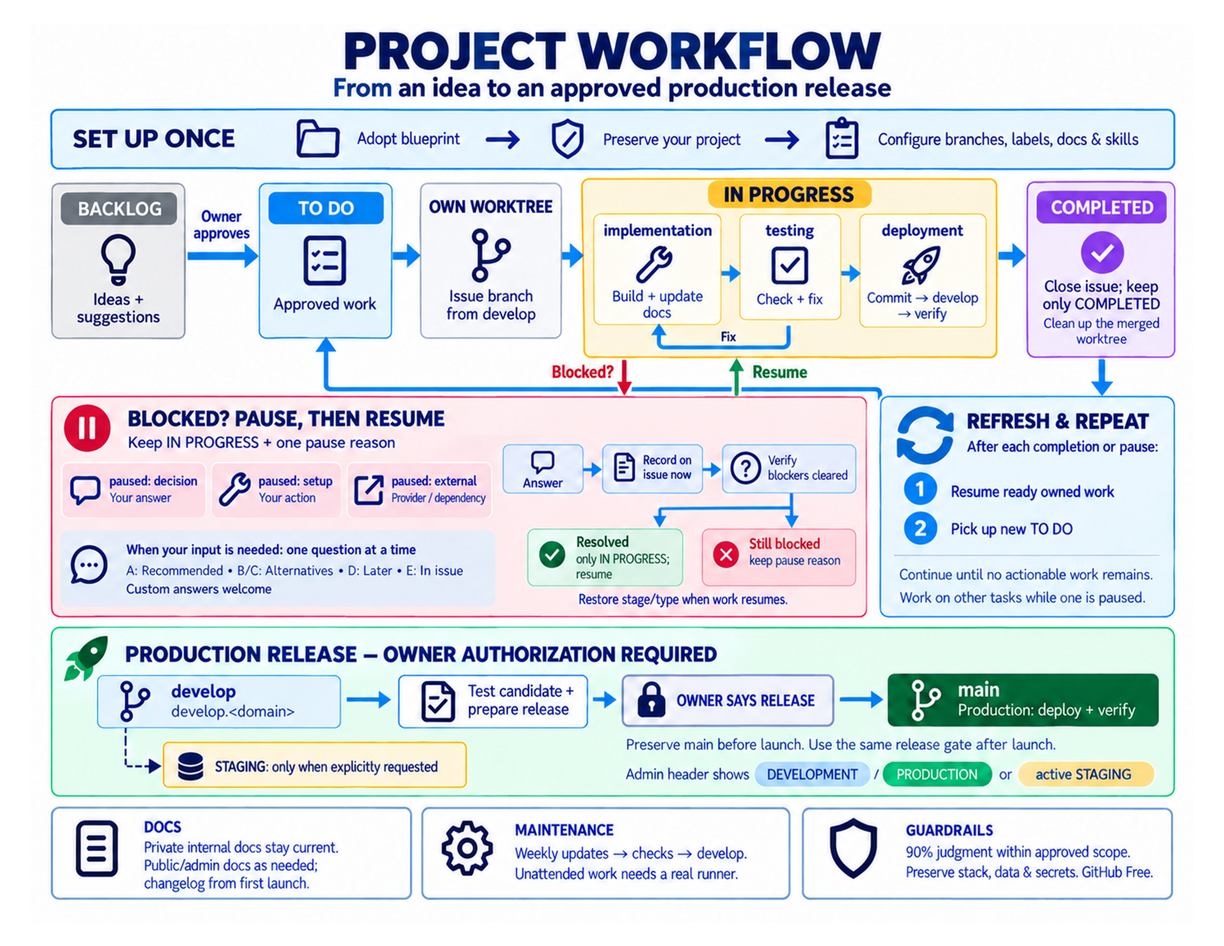
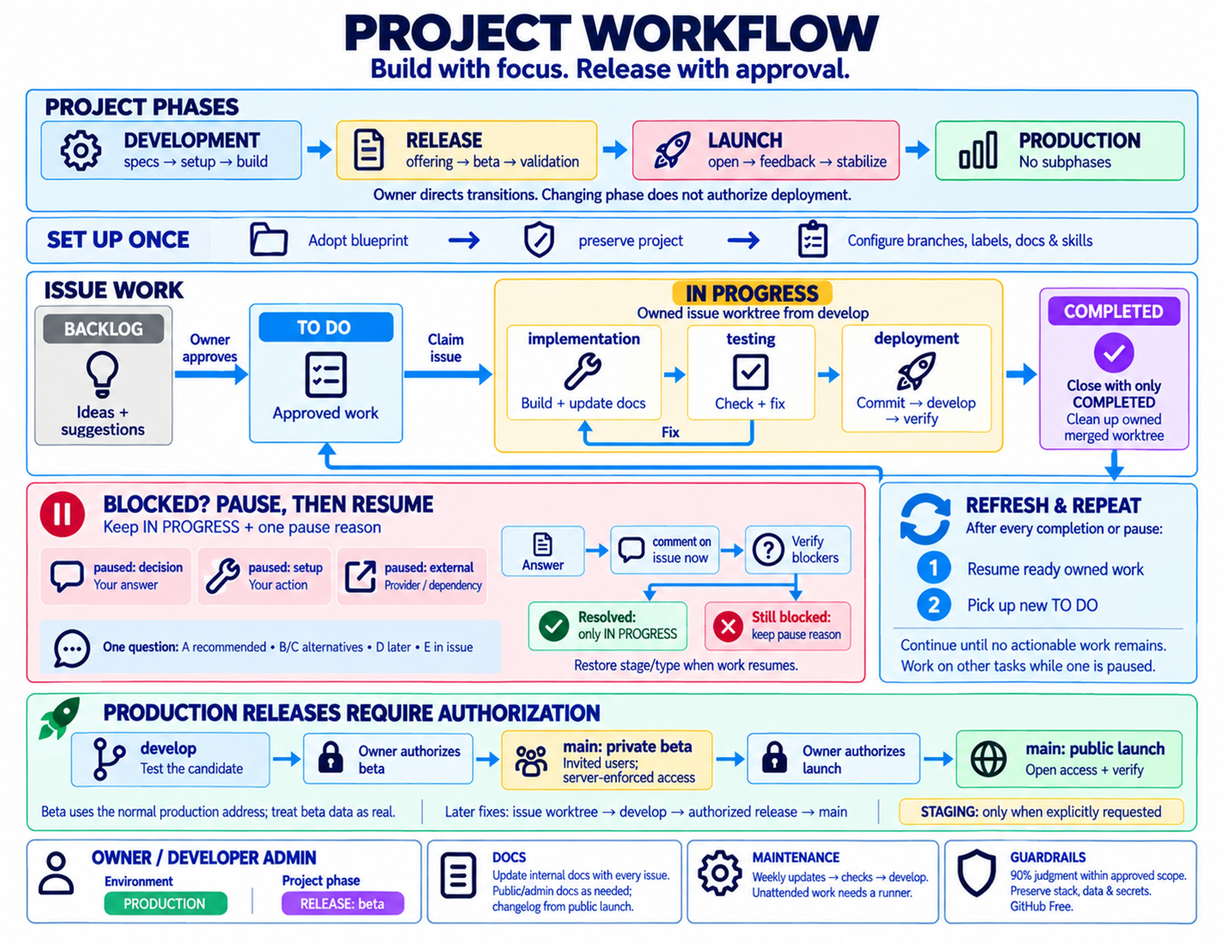
Refine offering guidance and lifecycle presentation (#9)

diff --git a/README.md b/README.md
@@ -2,7 +2,7 @@
 
 Reusable instructions for new and existing projects. You decide what to build and when to release; agents handle the authorized technical work.
 
-![Application workflow: backlog approval, issue worktree, implementation, testing, delivery to develop, completion and queue refresh; paused issues resume after verified resolution, and production releases require owner authorization.](assets/project-workflow-landscape.jpg)
+![Application workflow: project phases, issue worktrees, testing, delivery to develop, completion and queue refresh; pauses resolve before resumption. Private production beta and public opening require explicit authorization.](assets/project-workflow-landscape.jpg)
 
 Application workflow overview. [Open the full-size landscape JPEG](assets/project-workflow-landscape.jpg) (11 × 8.5 inches). Detailed instructions follow below.
 
@@ -37,7 +37,7 @@ Questions and reviews do not start unrelated implementation. The 90% confidence 
 
 [phases.md](template/phases.md) defines the work and completion criteria. You direct transitions; the agent recommends advancing when ready, without repeated prompts. Say “we're in specification” or “move to setup.” The recorded phase guides focus; changing it does not authorize deployment or public opening. New features do not reset the whole product.
 
-The admin header shows the phase, such as `DEVELOPMENT: specs`, beside the actual environment. An invited production beta can show environment `PRODUCTION` and phase `RELEASE: beta`. The final phase displays only `PRODUCTION`, with no subphase.
+Owner/developer admin views identify **Environment** and **Project phase** separately: an invited production beta shows `PRODUCTION` and `RELEASE: beta`. The final phase is `PRODUCTION`, without a subphase. Customer-admin views need no lifecycle display; phases are not GitHub labels or Project fields.
 
 ## Project setup
 
@@ -77,11 +77,11 @@ Review before collecting real personal information, even for a waitlist or beta.
 
 ## Marketing and pricing
 
-[marketing.md](template/marketing.md) keeps landing pages and product claims accurate; [pricing.md](template/pricing.md) governs commercial decisions. The [pricing-research skill](skills/pricing-research/SKILL.md) compares relevant products, costs, value, and refund terms, then presents a recommendation and alternatives. You approve initial prices and material changes; agents reuse those decisions to keep pages, checkout, billing, and docs consistent. Policy wording follows the legal rules above, and publication follows release authorization.
+[offering.md](template/offering.md) keeps marketing and commercial decisions consistent before and after launch. The [pricing-research skill](skills/pricing-research/SKILL.md) compares products, costs, value, and refund terms, then recommends alternatives. You approve initial prices and material changes; agents keep pages, checkout, billing, and docs aligned. Policies follow the legal rules; publication follows release authorization.
 
 Use the pricing prompt in [Prompts](#prompts). Research and business decisions stay in private project docs; approved customer policies belong in `docs/public/legal/`.
 
-When marketing work begins, the agent asks whether to install relevant skills from Corey Haines's collection linked in `marketing.md`. It is optional, is not bundled or downloaded during setup, and requires your approval before installation. You can defer it and continue with the blueprint's concise guidance.
+When marketing begins, the agent offers relevant Corey Haines skills linked in `offering.md`. Installation is optional, requires approval and review, and never happens during setup. The agent records your choice without repeated prompts; deferral does not block work.
 
 ## Environments and costs
 
@@ -101,7 +101,7 @@ The blueprint supports GitHub Free for public and private repositories. Private 
 | [template/project.md](template/project.md) | Initial setup and environment defaults |
 | [template/git-workflow.md](template/git-workflow.md) | Issues, labels, live queue, isolation, integration, release rules |
 | [template/design.md](template/design.md) | Stack-compatible layouts, form actions, feedback, and credential fields |
-| [template/marketing.md](template/marketing.md) / [template/pricing.md](template/pricing.md) | Accurate offers, researched commercial decisions, and consistent customer information |
+| [template/offering.md](template/offering.md) | Accurate marketing, researched commercial decisions, and consistent customer information |
 | [template/security.md](template/security.md) | Credentials, data, access, and reporting |
 | [template/legal.md](template/legal.md) | Project-specific jurisdictions, policy commitments, and review rules |
 | [template/documentation.md](template/documentation.md) | Private internal, public, optional admin docs, and changelogs |

diff --git a/skills/pricing-research/SKILL.md b/skills/pricing-research/SKILL.md
@@ -5,11 +5,11 @@ description: Research comparable products and recommend initial or materially re
 
 # Research Pricing and Refund Terms
 
-Confirm the target project. Plain filenames refer to its instructions, not files beside this installed skill; during adoption use the blueprint's template equivalents. Read `pricing.md`, `marketing.md`, and applicable `legal.md` rules. Reviews do not start implementation queue work; authorized edits follow `git-workflow.md`.
+Confirm the target project. Plain filenames refer to its instructions, not files beside this installed skill; during adoption use the blueprint's template equivalents. Read `offering.md` and applicable `legal.md` rules. Reviews do not start implementation queue work; authorized edits follow `git-workflow.md`.
 
 1. Inspect the product, existing commercial decisions, billing configuration, published policies, provider costs, and intended customers. Reuse known facts; ask only material missing questions. Identify the purchase model and comparable scope before searching.
 2. Research roughly 3–5 relevant alternatives, or explain a smaller useful set. Prefer official product, pricing, cancellation, and refund pages. Keep a compact comparison in private `docs/internal/` with direct URLs and access dates; mark unavailable or ambiguous information as unknown. Do not infer “no refunds” from a missing policy.
 3. Normalize the comparison: currency, billing interval, introductory versus renewal prices, seats/sites/usage, included features, limits, support, taxes/mandatory fees, trials, and cancellation/refund conditions where applicable. Show original prices alongside conversions and their dated basis. Explain material differences rather than presenting unlike plans as equivalents.
 4. Estimate sustainable pricing using realistic usage, provider/payment costs, support, and margin assumptions alongside customer value and positioning. Check heavy-use exposure; distinguish evidence from estimates. Use available customer feedback or willingness-to-pay evidence, and flag its absence. Competitor habits do not establish legal requirements; route applicability questions through `legal.md`.
 5. Present a brief recommendation as A, with useful B/C alternatives, tradeoffs, assumptions, and a defensible starting range. Address applicable refund windows, eligibility, initial purchases versus renewals, consumed services, exclusions, and the request process. Explain cancellation separately. Avoid inventing mandatory tiers, discounts, or guarantees. Ask the material business decision using `git-workflow.md`; allow the owner's own answer.
-6. Record the decision in the commercial record required by `pricing.md`. For authorized implementation, compare each customer-facing surface with that record and verify billing/refund behavior using synthetic data and provider test modes. Report discrepancies and resolve them before release. Recommend a proportionate review after real sales, costs, or market conditions provide new evidence; research does not guarantee optimal pricing or activate monitoring.
+6. Record the decision in the commercial record required by `offering.md`. For authorized implementation, compare each customer-facing surface with that record and verify billing/refund behavior using synthetic data and provider test modes. Report discrepancies and resolve them before release. Recommend a proportionate review after real sales, costs, or market conditions provide new evidence; research does not guarantee optimal pricing or activate monitoring.

diff --git a/template/offering.md b/template/offering.md
@@ -1,0 +1,15 @@
+# Offering Rules
+
+Apply before customer-facing pages or initial pricing, during launch preparation, and whenever the offer changes, including after launch. Keep copy brief and understandable to the intended audience.
+
+- Explain the audience, problem, supported benefits, and next action. Use verified capabilities and current screenshots; distinguish available features from plans. Pre-launch pages must accurately identify waitlists, previews, and availability.
+- Substantiate measurable claims, comparisons, testimonials, and trust marks. Never invent customers, guarantees, savings, scarcity, or certifications. Commitments and disclosures follow [legal.md](legal.md); presentation follows [design.md](design.md). Verify links and advertised signup/purchase journeys, including mobile.
+
+Use the `pricing-research` skill recorded in [AGENTS.md](AGENTS.md) before initial pricing or material commercial changes. Compare relevant products, customer value, delivery/support costs, and applicable constraints. Competitor prices are evidence, not a target or proof of an optimal price. Assume no subscription tiers, discounts, or universal refund window.
+
+- Maintain one approved commercial record indexed from private `docs/internal/` under [documentation.md](documentation.md): audience, offering, rationale, effective version, and approval. Link canonical billing configuration and approved policies instead of duplicating them. Separate proposals from active terms.
+- The owner or explicitly authorized business delegate approves initial prices and material changes; reuse recorded decisions. Research does not authorize live billing changes. Record effects on existing customers, preserving commitments and required notices under `legal.md`.
+- Research refund eligibility, deadlines, renewals, consumed services, and cancellation separately. Policy wording, applicability review, and commitments follow `legal.md`; approved public policies belong in `docs/public/legal/`.
+- Keep landing pages, feature/plan comparisons, pricing pages, checkout, billing, and customer docs consistent with approved amounts, intervals, currencies, limits, charges, trials, renewals, cancellation, and refunds. Update affected drafts before issue completion; activate with the corresponding authorized offering under [launch.md](launch.md). Free products need only applicable rules.
+
+When substantive marketing work begins, ask the developer whether to install selected [Corey Haines marketing skills](https://github.com/coreyhaines31/marketingskills), explain relevant choices, and record the decision. Never download during adoption or without approval. Honor recorded choices without repeated prompts; deferral does not block work. Before approved installation, review selected skills, dependencies, license, and project fit; record the installed revision and location.

diff --git a/template/phases.md b/template/phases.md
@@ -9,8 +9,8 @@ Read the current phase, subphase, and active plan in [AGENTS.md](AGENTS.md) when
 | `LAUNCH` | `open`: open access and publish the release. `feedback`: assess actual customer use. `stabilize`: resolve significant early problems. | An agreed period of real use meets reliability criteria; support, recovery, and releases work routinely. |
 | `PRODUCTION` | No subphases. Continue marketing, growth, support, maintenance, and approved feature releases. | Final ongoing phase; an empty backlog is not required. |
 
-The user directs transitions. Accept natural wording: “specification” means `DEVELOPMENT: specs`; “move to setup” selects `DEVELOPMENT: setup`. Clarify only ambiguous intent. Verify each subphase's listed work and applicable phase-exit criteria; recommend advancement briefly with evidence and remaining decisions, then await approval without repeated nudges. An explicit transition needs no second confirmation. Continue independent approved work while awaiting a decision; do not silently skip unresolved requirements.
+The user directs transitions. Accept natural wording: “specification” means `DEVELOPMENT: specs`; “move to setup” selects `DEVELOPMENT: setup`. If a request such as “move to production” could mean phase or deployment, clarify which; never infer deployment authorization. Verify each subphase's work and applicable phase-exit criteria; recommend advancement with evidence and remaining decisions, then await approval without repeated nudges. Explicit transitions need no second confirmation. Continue independent approved work while awaiting a decision; do not silently skip unresolved requirements.
 
 Record approved transitions in `AGENTS.md` and the relevant issue. Store the living specification in private `docs/internal/specification.md` or link an existing plan under [documentation.md](documentation.md). Phases guide priorities; authorized work may overlap. Future features do not reset the whole product from `PRODUCTION`.
 
-Parent labels are uppercase, subphases lowercase: `DEVELOPMENT: specs`, `RELEASE: beta`, `LAUNCH: feedback`, then only `PRODUCTION`. Admin presentation follows [design.md](design.md). Phase changes do not authorize deployment or public access; private beta and public opening follow [launch.md](launch.md). Offering work uses [marketing.md](marketing.md) and [pricing.md](pricing.md).
+Record and display parents uppercase, subphases lowercase: `DEVELOPMENT: specs`, `RELEASE: beta`, `LAUNCH: feedback`, then only `PRODUCTION`. Phases are not GitHub issue labels or Project fields. Admin presentation follows [design.md](design.md). Phase changes do not authorize deployment or public access; private beta and public opening follow [launch.md](launch.md). Commercial work follows [offering.md](offering.md), including after launch.

diff --git a/template/launch.md b/template/launch.md
@@ -15,7 +15,7 @@ For an already-live product, use this checklist for subsequent releases under [g
 - **Release scope:** Record the launch issue, intended version, included features, known limitations, and verification results. Confirm authorization for production delivery and public opening; reuse existing explicit approvals.
 - **Release testing:** Test the recorded candidate on `develop.<domain>` or an isolated candidate preview under [project.md](project.md), keeping it stable during final checks. Staging is optional; use `staging.<domain>` only if explicitly requested and active. Do not provision staging as a launch prerequisite. Verify that the authorized production deployment uses the tested candidate.
 - **Customer documentation:** Prepare the initial `docs/public/` set from reviewed technical docs: getting started, core tasks, and where to get help. Include installation or configuration instructions when relevant. Check that it describes the version being launched and contains no internal-only content.
-- **Marketing and commercial consistency:** Under [marketing.md](marketing.md) and [pricing.md](pricing.md), verify landing pages, pricing pages, checkout, billing configuration, customer docs, and approved policies agree with the release. Confirm commercial decisions and test the advertised journey before activation. Repeat for each release affecting the offer.
+- **Marketing and commercial consistency:** Under [offering.md](offering.md), verify landing pages, pricing pages, checkout, billing configuration, customer docs, and approved policies agree with the release. Confirm commercial decisions and test the advertised journey before activation. Repeat for each release affecting the offer.
 - **Customer terms and privacy:** Follow [legal.md](legal.md). Verify applicable policies in `docs/public/legal/` match the release, have authorized terms and effective dates, and are linked where needed. Test applicable notices, consent/acceptance, and privacy controls; exclude unfinished drafts. Required disclosures must be ready before the corresponding collection or transactions, including any pre-launch waitlist/beta.
 - **Administrator documentation, when needed:** Prepare `docs/admin/` for the released administration tasks. Build its documentation separately from that folder, verify its links and intended access, and keep restricted pages/assets out of public output. Skip this set when the product needs no separate administrator guide.
 - **Customer changelog:** Create `CHANGELOG.md` during final go-live preparation and publish it at launch. Begin with the initial version, release date, and a short customer-readable summary. Do not reconstruct the development history or publish internal issue notes.

diff --git a/template/project.md b/template/project.md
@@ -7,7 +7,7 @@ During setup, fill facts/commands in [AGENTS.md](AGENTS.md); routine tasks use t
 1. Record the phase/subphase under [phases.md](phases.md), launch state, actual development/deployed commits, branches, triggers, services, and checks. New projects start at `DEVELOPMENT: specs`; existing projects retain their verified position, asking only if unclear. Mark undeployed/unconfigured items explicitly. Establish integration under [git-workflow.md](git-workflow.md) without discarding unfinished work.
 2. Fill and verify the command table from scripts/CI; identify blocked or inapplicable commands. Keep the human-facing quick start in README.
 3. Establish private `docs/internal/` and its index under [documentation.md](documentation.md). Add `docs/public/` and optional `docs/admin/` only when needed; record each source, destination, build command, audience, and access restrictions. Verify links and existing delivery without publishing an unauthorized release.
-4. Document test-data setup, secret configuration, and private vulnerability reporting under [security.md](security.md), without secret values. Record business/service regions and existing policies under [legal.md](legal.md); assess applicable notices before real personal-data collection, including pre-launch. Identify existing commercial decisions under [pricing.md](pricing.md) and customer-facing pages under [marketing.md](marketing.md). Adoption does not authorize replacing live policies or offers.
+4. Document test-data setup, secret configuration, and private vulnerability reporting under [security.md](security.md), without secret values. Record business/service regions and existing policies under [legal.md](legal.md); assess applicable notices before real personal-data collection, including pre-launch. Identify existing commercial decisions and customer-facing pages under [offering.md](offering.md). Adoption does not authorize replacing live policies or offers.
 5. Configure maintenance under [updates.md](updates.md), recording schedule, coverage, checks, runner/run links, and gaps. Distinguish active-agent work from verified unattended automation; record package rationale.
 6. Record blueprint revision, local exceptions, and accessible skill locations in `AGENTS.md`. Verify installed discovery or explicit reading from a retained blueprint checkout. Application domains and provider details belong in project docs, not the reusable blueprint.
 

diff --git a/AGENTS.md b/AGENTS.md
@@ -9,6 +9,7 @@ Start sessions at the repository root and verify active instruction sources. Cor
 - No application installation, build, or runtime tests apply here.
 - Review the diff and run `git diff --check` (or `git diff --cached --check`).
 - Verify all relative Markdown links in both this repository and a copied `template/` directory.
+- Update affected README graphics in the same issue as workflow changes.
 - For skill edits, validate frontmatter and relevant references; verify that target-project filenames are not incorrectly resolved relative to the installed skill.
 - For label-helper edits, preview with `pwsh -File scripts/setup-labels.ps1 -Repo OWNER/REPO -WhatIf` or `bash scripts/setup-labels.sh OWNER/REPO --dry-run` (requires jq). Resolve the target repository from the checkout, validate the helper, and verify authorized GitHub changes.
 
@@ -18,7 +19,7 @@ Use [template/git-workflow.md](template/git-workflow.md) for issues, tracking, l
 
 Use the 90% judgment guideline and autonomous-work boundaries in [template/AGENTS.md](template/AGENTS.md); it is not a measured probability. Follow [template/security.md](template/security.md) for credentials and data. Read other templates only when changing their subject matter.
 
-Keep all distributed files generic: no personal, company, account, repository, or application identities. Use placeholders; adopting projects record their own configuration, authority, and jurisdictions. Keep blueprint-maintenance notes outside `template/`. Maintain consistent README instructions, labels, and authorized autonomy. Verify integration into `main`, then close the issue with only `COMPLETED`.
+Keep distributed files generic: no adopting-project personal, company, account, repository, or application identities. Use placeholders for project configuration, authority, and jurisdictions. Relevant third-party sources, packages, and skills may be named; citations do not authorize installation. Keep maintenance notes outside `template/`. Maintain consistent instructions, labels, and authorized autonomy. Verify integration into `main`, then close with only `COMPLETED`.
 
 All blueprint requirements must support GitHub Free for public and private repositories. Never require a plan upgrade, billed usage, or public visibility; document verified free alternatives.
 

diff --git a/template/design.md b/template/design.md
@@ -18,7 +18,7 @@ Apply these defaults to new UI when compatible with the established stack. Prese
 
 - Use a compact title/action row for application pages, with useful content directly below. Avoid oversized headers and decorative empty space in settings and administration screens.
 - Show a persistent badge for the current environment inside the admin header, normally upper right before utility icons: `DEVELOPMENT`, `PRODUCTION`, or `STAGING` when staging is active. Use consistent, distinct colors with readable text and adequate contrast in supported themes; keep it visible on narrow screens. Derive the label from explicit deployment-environment configuration, not build mode or hostname alone.
-- Beside it, show a compact lifecycle badge from [phases.md](phases.md), such as `RELEASE: beta`; final `PRODUCTION` has no suffix. Distinguish environment and phase with accessible labels and consistent colors. Keep the phase display synchronized with the recorded status through authorized delivery; expose only display-safe values. A keyboard-accessible details control explains the step and completion criteria; plan/issue links must respect admin access. Neither badge controls deployment or access.
+- In owner/developer admin views, also show the [project phase](phases.md), such as `RELEASE: beta`; final `PRODUCTION` has no suffix. Use visible, accessible labels **Environment** and **Project phase**. Keep display-safe phase values synchronized through authorized delivery; customer-admin views need no lifecycle display. Neither badge controls deployment or access.
 - Use shared components for the page shell, header, sections, field groups, checkbox rows, and actions. Keep primary action placement clear without redundant controls; project-specific patterns belong in `docs/internal/`.
 - Put two or three related short fields in a row when they fit comfortably; give long or complex controls more width. Stack on narrow screens and preserve logical reading/tab order. Do not force unrelated fields into columns.
 - Use the existing spacing scale for page padding, field gaps, and sections. Align labels, control edges, and actions consistently; keep helper/error text associated with its field without displacing neighboring controls unnecessarily.

diff --git a/template/legal.md b/template/legal.md
@@ -2,7 +2,7 @@
 
 Record business locations, customer/service regions, and product scope in private project docs. Determine applicable jurisdictions from those facts; assume no country or regional exemption. Reassess when operations, targeting, customers, or relevant law change. Use current official sources rather than importing unrelated regional boilerplate.
 
-Use the `legal-review` skill at the location recorded in [AGENTS.md](AGENTS.md) for initial policies, material policy changes, or uncertain applicability. Read [security.md](security.md) for technical safeguards. Commercial research follows [pricing.md](pricing.md); this file governs policy wording and obligations.
+Use the `legal-review` skill at the location recorded in [AGENTS.md](AGENTS.md) for initial policies, material policy changes, or uncertain applicability. Read [security.md](security.md) for technical safeguards. Commercial research follows [offering.md](offering.md); this file governs policy wording and obligations.
 
 - Write brief, plain-language policies describing verified practices. Keep applicable disclosures; brevity is not permission to omit them. Avoid unrelated boilerplate and blanket compliance claims.
 - Never promise perfect security. Claims about confidentiality, sharing, deletion, retention, uptime, refunds, or response deadlines need verified operational support and authorization. Distinguish legal duties from optional promises; never conceal gaps or silently weaken existing commitments.

diff --git a/template/AGENTS.md b/template/AGENTS.md
@@ -51,8 +51,7 @@ Use available APIs/tools without repeating authorization requests. Submit routin
 | Issues, implementation, queue, commits | [git-workflow.md](git-workflow.md) |
 | User-requested issue interview | `issue-interview` skill at its recorded location |
 | UI | [design.md](design.md); `interface-design` skill for page/form layout and interaction work |
-| Landing pages, messaging, or offer changes | [marketing.md](marketing.md) |
-| Pricing, packaging, or refund decisions | [pricing.md](pricing.md); `pricing-research` skill for initial or material decisions |
+| Marketing, pricing, packaging, or refunds | [offering.md](offering.md); `pricing-research` skill for initial or material commercial decisions |
 | Documentation | [documentation.md](documentation.md) |
 | Security | [security.md](security.md) |
 | Personal-data practices, customer terms, or policies | [legal.md](legal.md); `legal-review` skill for policy preparation or material review |
